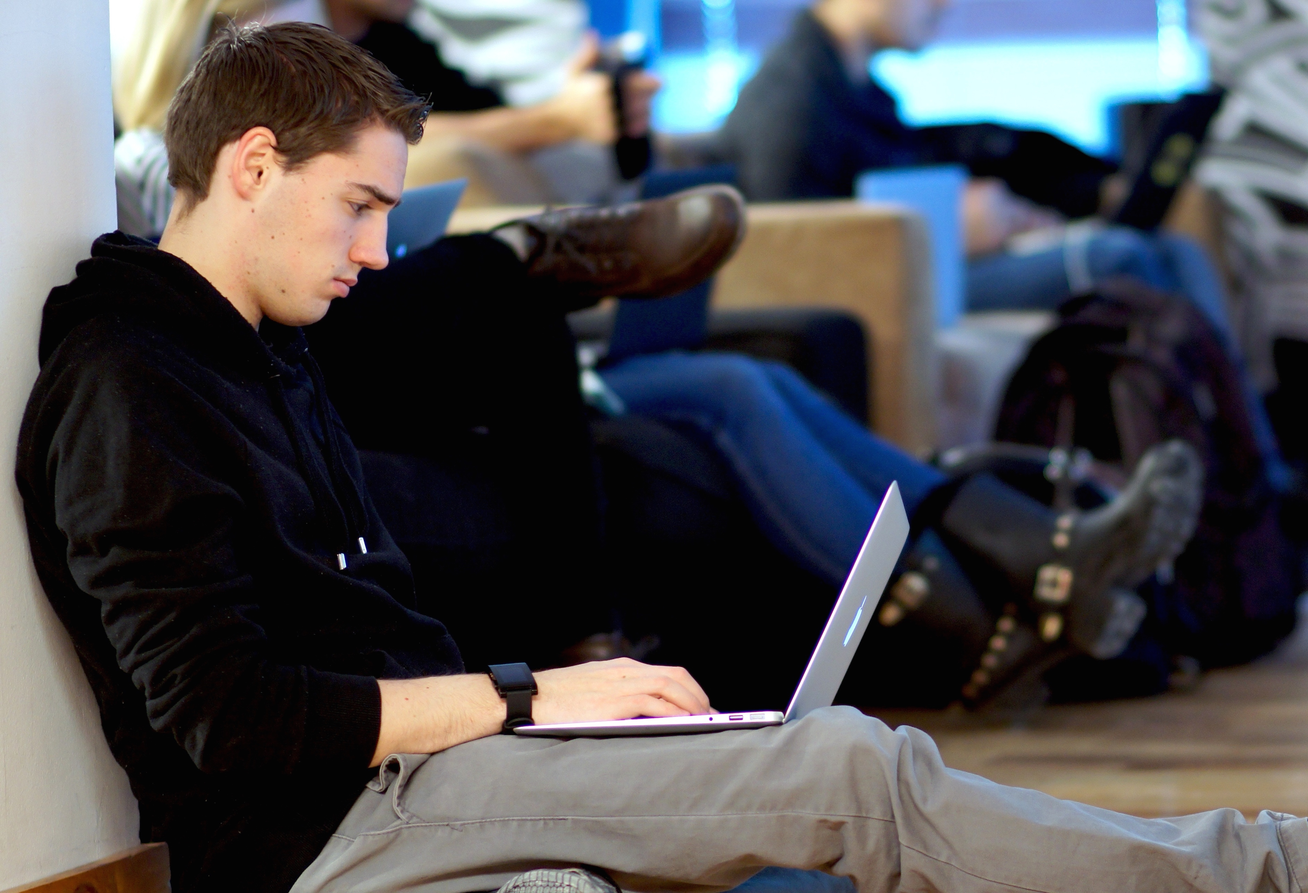
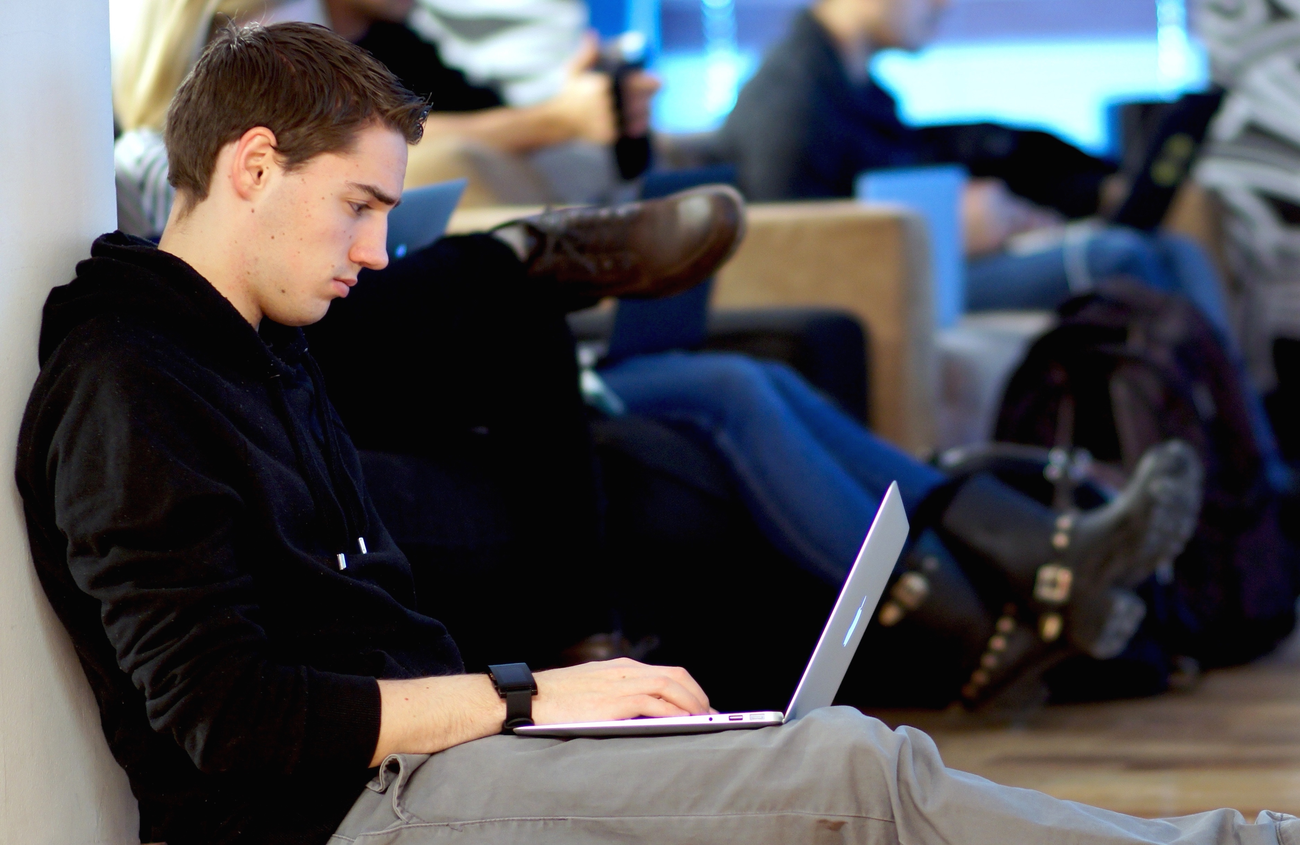
Updated main photos with new first screen, as well as added filter css code for main photos

diff --git a/new-index.html b/new-index.html
@@ -50,7 +50,7 @@
 <li data-target="#myCarousel" data-slide-to="2"></li>
 </ol>
 <div class="carousel-inner">
-<div class="item bg bg1 active">
+<div class="item bg bg1 active edit-Photo-one">
 </div>
 <div class="item bg bg2">
 </div>
@@ -59,8 +59,8 @@
 </div>
 </div>
 <div id="mainTitle" style="position: relative; top:-70%; color: white; text-align: right; margin-right: 15%;">
-  <h1 style="font-weight: 100; font-size: 64px;">Hello, My name is Tyler</h1>
-  <h2 style="font-weight: 300; color: #989898;"> Web Developer, Designer, <br> and Tech Enthusiast </h2>
+  <h1 style="font-weight: 100; font-size: 64px; letter-spacing: 0.75px;">Hello, My name is Tyler</h1>
+  <h2 style="font-weight: 300; color: #989898;">  Web Developer, Designer, <br> and Tech Enthusiast <br></h2>
   <a href="#aboutme">
     <button class="btn" style="width: 175px; height: 50px; background-color: transparent; border: 2px solid #FFCC00; color: #FFCC00; opacity: 1"><h4>About Me <i class="fa fa-user"></i></button>
   </a>
@@ -245,7 +245,7 @@
   </div>
 </div>
 
-  <div style="width:100%; height: 425px; background-image:url(images/jpg); background-color: #ee7942; background-position: center; background-repeat: no-repeat; text-align:center; " class="col-md-12">
+  <div style="width:100%; height: 425px; background-image:url(images/connector.jpg); background-color: #ee7942; background-position: center; background-repeat: no-repeat; text-align:center; " class="col-md-12">
     <div class="col-md-8 col-md-offset-2" style="margin-top: 7em; border: 5px solid #FFFFFF; background: transparent;">
       <h2 style="padding-top: 30px; color: #F8F8F8; font-weight: 100; line-height: 40px;">"There are many things in life that will catch your eye, but only a few will catch your heart. Pursue these."</h2>
       <h3 style="padding-bottom: 30px; color: #000000; font-weight: 100;"> — Michael Nolan — </h3>
@@ -288,7 +288,7 @@
   <h1 class="titleBlock" style="padding-top: 1em; padding-bottom: 1em;"> Get in Touch</h1>
   <div class="col-md-12">
     <div class="col-md-4">
-
+      <h1> Hello, Hey </h1>
     </div>
     <div class="col-md-8">
       <form action="/my-handling-form-page" method="post">
@@ -304,7 +304,6 @@
           <label for="msg">Message:</label>
           <textarea id="msg" name="user_message"></textarea>
         </div>
-
         <div class="button">
           <button type="submit"> Send your Message</button>
         </div>

diff --git a/new-style.css b/new-style.css
@@ -21,16 +21,19 @@ background-repeat:no-repeat;
 background-size:cover;
 }
 .carousel .carousel-inner .bg1 {
-background-image:url(images/laptop.jpg);
+background-image:url(images/IMG_0334.jpg);
 background-position: center left;
+-webkit-filter: grayscale(1) invert(0.1);
 }
+
+
 .carousel .carousel-inner .bg2 {
 background-image:url(images/amazing.jpg);
 background-position: center center;
 }
 .carousel .carousel-inner .bg3 {
-background-image:url(images/tyler-main.jpg);
-background-position: left;
+background-image:url(images/tyler-main-2.jpg);
+background-position: left top;
 }
 
 .main-Coming-Soon-Block {

diff --git a/new-portfolio.js b/new-portfolio.js
@@ -18,7 +18,7 @@
 
 $(".circle").mouseenter(function() {
   $(this).css("background", "#FFFFFF");
-  $("#circle-info").css("color", "#000000");
+  $(".circle-info").css("color", "#000000");
 }). mouseleave(function() {
   $(this).css("background", "transparent");
 });
